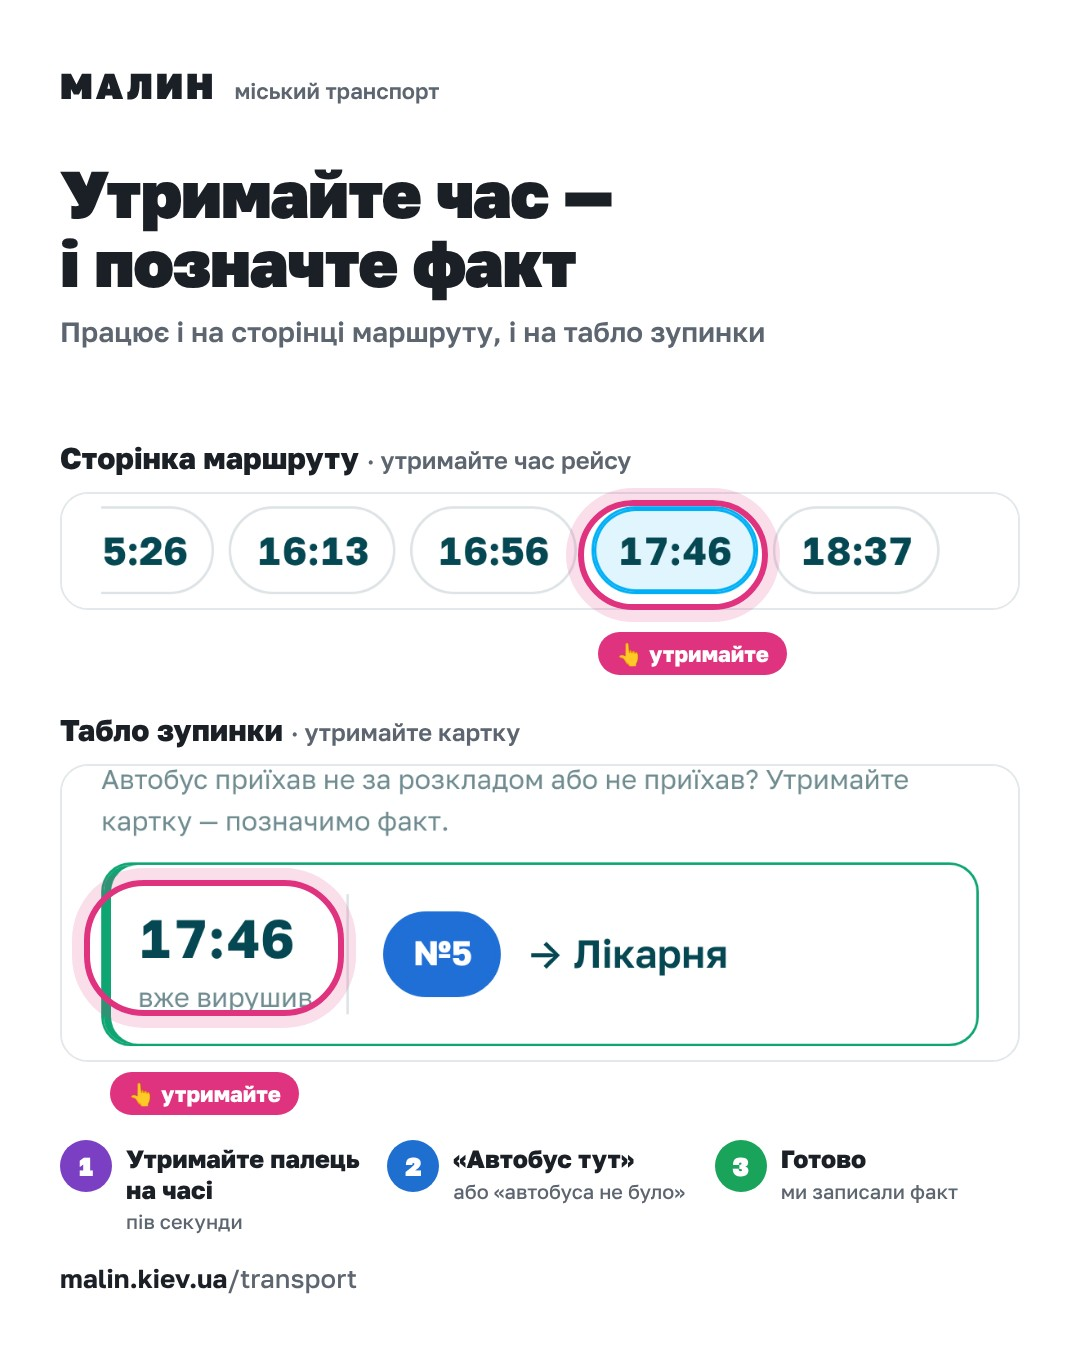
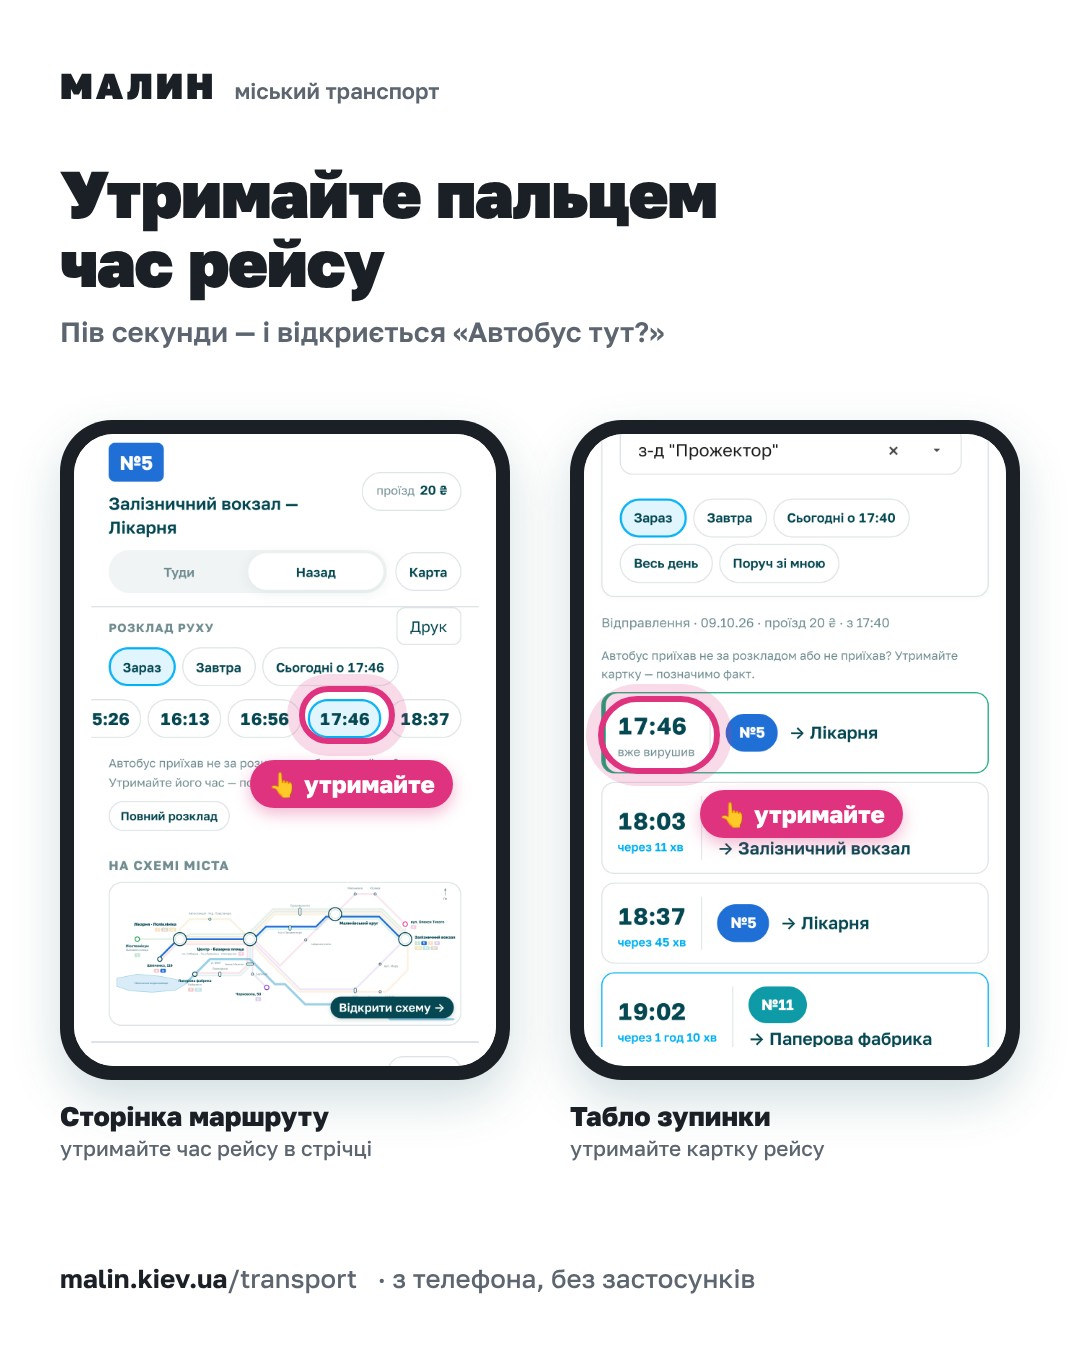
Docs: arrivals post — phone screens on the «how» image, «on your phone» in the text
Claude-Session: https://claude.ai/code/session_01HPs5sUtJMLF5cegugvfhcy

diff --git a/Docs/arrivals-facebook-post.md b/Docs/arrivals-facebook-post.md
@@ -12,7 +12,7 @@
 | # | Файл | Що на ній |
 |---|---|---|
 | 1 | [`facebook-preview-assets/arrivals-1-cover.jpg`](./facebook-preview-assets/arrivals-1-cover.jpg) | «Автобус не за розкладом? Позначте це»: телефон із панеллю «№5 · 17:46 за розкладом» на табло «з-д «Прожектор»» і три пункти: «Автобус тут», «Автобуса не було», без реєстрації |
-| 2 | [`facebook-preview-assets/arrivals-2-how.jpg`](./facebook-preview-assets/arrivals-2-how.jpg) | «Утримайте час — і позначте факт»: стрічка часів на сторінці маршруту №5 і картка табло, де утримувати, і три кроки |
+| 2 | [`facebook-preview-assets/arrivals-2-how.jpg`](./facebook-preview-assets/arrivals-2-how.jpg) | «Утримайте пальцем час рейсу»: два телефони — сторінка маршруту №5 (чіп 17:46) і табло «Прожектора» (картка 17:46), де утримувати |
 | 3 | [`facebook-preview-assets/arrivals-3-why.jpg`](./facebook-preview-assets/arrivals-3-why.jpg) | «Розклад — це план. Як насправді — знаєте ви»: справжній вечірній розклад №5 на «Прожекторі» в бік Лікарні з колонкою «насправді» (один рядок — приклад позначки) і екран «Скільки ви чекали на зупинці?» |
 
 ---
@@ -26,7 +26,7 @@
 Розклад міських маршрутів Малина на сайті — це план. Як автобуси ходять насправді, найкраще знаєте ви: ті, хто щодня стоїть на зупинці.
 
 Тому ми додали на сайт просту позначку:
-• відкрийте маршрут або табло своєї зупинки;
+• відкрийте на телефоні маршрут або табло своєї зупинки — без застосунків;
 • **утримайте палець на часі рейсу** (пів секунди);
 • натисніть **«Автобус тут»** — зараз або 2, 5, 10 хвилин тому.
 
@@ -55,6 +55,8 @@
 - **Колонка «насправді» на третій картинці** порожня, бо позначок ще немає. Рядок 17:46 → 17:52
   «+6 хв» — приклад, на картинці так і підписано «приклад позначки». Час «за розкладом» — справжній,
   з повного розкладу сторінки маршруту.
+- Пост про телефон: усі користуються сайтом з телефона, тому на картинках лише екрани телефона
+  (390 px), а в тексті — «утримайте палець».
 - **Макети** — HTML 1080 × 1350 у стилі постів про наклейки ([1](./stickers-facebook-post.md),
   [2](./stickers-facebook-post-2.md)): Golos Text, «МАЛИН» 900, кольорові номери кроків. Знято
   Playwright-ом.
